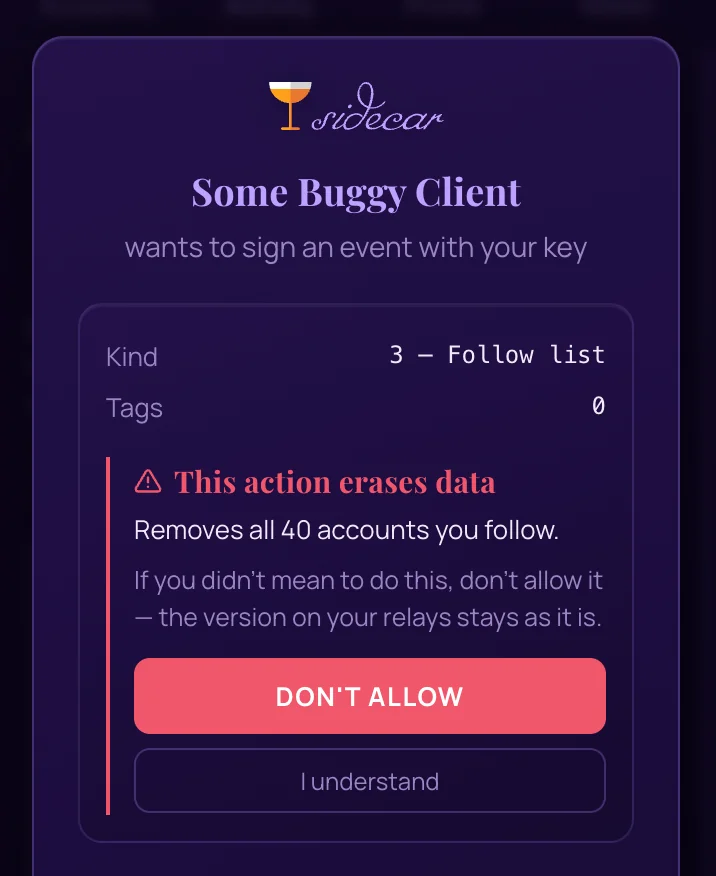
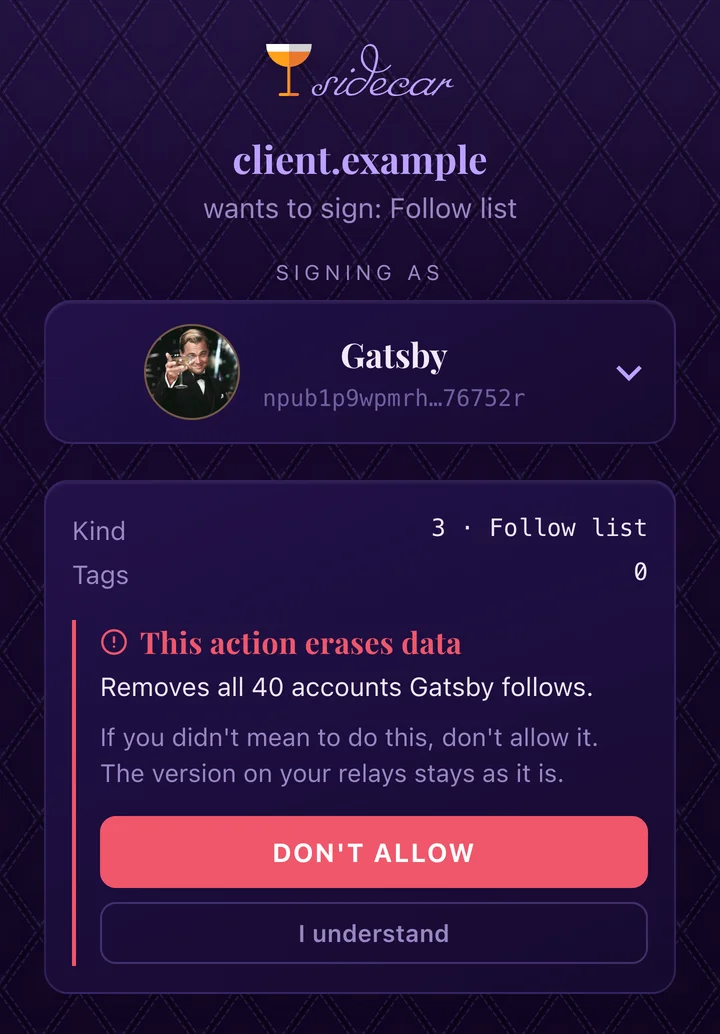
Retake the three approval-card help screenshots
The approval prompt, the scope row with 30 min chosen, and the
follow-list warning, taken from the redesigned card with the demo
accounts and cropped as before, with sizes and alt text to match. The
warning's paragraph names Sign where it said Allow once.

Closes #575.

diff --git a/help.html b/help.html
@@ -107,7 +107,7 @@
       <!-- screenshot: the approval prompt, a site asking to sign an event -->
       <figure class="shot">
         <div class="shot-frame">
-          <img src="screenshots/approval-prompt.webp" alt="Sidecar's approval prompt: primal.net asking to see your public key, showing which account will sign, with Allow once, Trust this site, and Reject buttons">
+          <img src="screenshots/approval-prompt.webp" width="720" height="886" alt="Sidecar's approval prompt: notes.example wants to sign a note, signing as Amelia, in an account card with a chevron for picking another, above the note's kind, tags and text">
         </div>
         <figcaption>A site asking for a signature. You decide, every time, unless you choose to trust the site.</figcaption>
       </figure>
@@ -336,7 +336,7 @@
       <!-- screenshot: the scope row on an approval prompt, 30 min chosen -->
       <figure class="shot">
         <div class="shot-frame">
-          <img src="screenshots/relax-chips.webp" width="718" height="832" alt="An approval prompt: 'Signing as' above a card for the account Amelia with her avatar and npub, then an 'Auto-sign for the next' row with 5 min, 15 min, and 30 min buttons, followed by Allow once, Trust this site, and Reject">
+          <img src="screenshots/relax-chips.webp" width="720" height="518" alt="The foot of an approval prompt: the line 'Signs here without asking for 30 minutes.' above a row of Once, 30 min and Always with 30 min chosen, then Sign for 30 min, Trust this site, and Reject">
         </div>
         <figcaption>Choosing half an hour instead of approving one event at a time.</figcaption>
       </figure>
@@ -435,12 +435,12 @@
       <!-- screenshot: the destructive-overwrite warning on an approval prompt -->
       <figure class="shot">
         <div class="shot-frame">
-          <img src="screenshots/destructive-warning.webp" width="716" height="876" alt="A Sidecar approval prompt headed 'Some Buggy Client wants to sign an event with your key', for a kind 3 follow list with 0 tags. A red-ruled warning reads 'This action erases data — Removes all 40 accounts you follow', followed by a prominent DON'T ALLOW button and a quieter 'I understand' button">
+          <img src="screenshots/destructive-warning.webp" width="720" height="1034" alt="A Sidecar approval prompt: client.example wants to sign a kind 3 follow list with 0 tags as Gatsby. A red-ruled warning reads 'This action erases data: Removes all 40 accounts Gatsby follows', followed by a prominent DON'T ALLOW button and a quieter I understand button">
         </div>
         <figcaption>The prompt names what would be lost, and won't let you approve it by reflex.</figcaption>
       </figure>
 
-      <p><strong>Approving takes a deliberate second step.</strong> <em>Allow once</em> and
+      <p><strong>Approving takes a deliberate second step.</strong> <em>Sign</em> and
       <em>Trust this site</em> start greyed out, and <em>Don't allow</em> sits right in the
       warning where your thumb already is. If the change really was intentional — you did
       just prune your follows — press <em>I understand</em> and the usual buttons come
